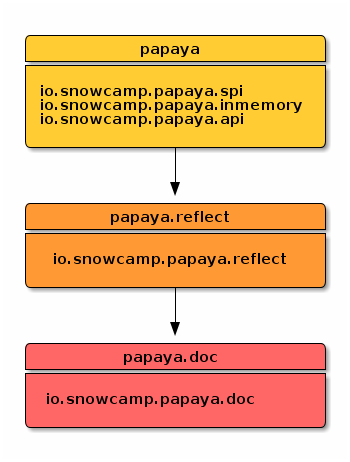
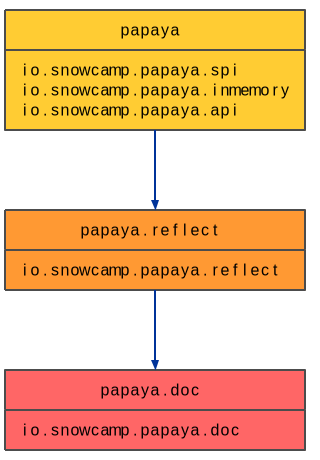
Change colors in diagrams (switch ditaa to shaape)

diff --git a/docs/notes-windows.html b/docs/notes-windows.html
@@ -563,11 +563,10 @@ It compile the source code with JDK 8 (should work) and run with JDK 9 (should f
 </div>
 </div>
 <div class="paragraph">
-<p>Thats&#8217;s a better error message !</p>
+<p>That&#8217;s a better error message !</p>
 </div>
 <div class="paragraph">
-<p>In the static initializer of PlatformDependent0, the exception is raised because the code tries to access a field of java.nui.Buffer which is not in an open package.
-(see <a href="https://github.com/netty/netty/blob/67d3a78123fa3faa85c1a150bd4ee69425079b3d/common/src/main/java/io/netty/util/internal/PlatformDependent0.java#L68" class="bare">https://github.com/netty/netty/blob/67d3a78123fa3faa85c1a150bd4ee69425079b3d/common/src/main/java/io/netty/util/internal/PlatformDependent0.java#L68</a>)</p>
+<p>In the static initializer of PlatformDependent0, the exception is raised because the code tries to access a field of java.nui.Buffer which is not in an open package <sup class="footnote">[<a id="_footnoteref_1" class="footnote" href="#_footnote_1" title="View footnote.">1</a>]</sup>.</p>
 </div>
 </div>
 <div class="sect3">
@@ -618,8 +617,7 @@ It compile the source code with JDK 8 (should work) and run with JDK 9 (should f
 </div>
 <div class="paragraph">
 <p>In the static initializer of io.netty.resolver.dns.DnsServerAddresses,
-it tries to load the class sun.net.dns.ResolverConfiguration which is in a non-exported package.
-(see <a href="https://github.com/netty/netty/blob/67d3a78123fa3faa85c1a150bd4ee69425079b3d/resolver-dns/src/main/java/io/netty/resolver/dns/DnsServerAddresses.java#L49" class="bare">https://github.com/netty/netty/blob/67d3a78123fa3faa85c1a150bd4ee69425079b3d/resolver-dns/src/main/java/io/netty/resolver/dns/DnsServerAddresses.java#L49</a>)</p>
+it tries to load the class sun.net.dns.ResolverConfiguration which is in a non-exported package <sup class="footnote">[<a id="_footnoteref_2" class="footnote" href="#_footnote_2" title="View footnote.">2</a>]</sup>.</p>
 </div>
 </div>
 <div class="sect3">
@@ -1234,6 +1232,15 @@ copy NUL src\main\java\papaya.inmemory\module-info.java</code></pre>
 </div>
 </div>
 </div>
+</div>
+</div>
+<div id="footnotes">
+<hr>
+<div class="footnote" id="_footnote_1">
+<a href="#_footnoteref_1">1</a>. <a href="https://github.com/netty/netty/blob/67d3a78123fa3faa85c1a150bd4ee69425079b3d/common/src/main/java/io/netty/util/internal/PlatformDependent0.java#L68" class="bare">https://github.com/netty/netty/blob/67d3a78123fa3faa85c1a150bd4ee69425079b3d/common/src/main/java/io/netty/util/internal/PlatformDependent0.java#L68</a>
+</div>
+<div class="footnote" id="_footnote_2">
+<a href="#_footnoteref_2">2</a>. <a href="https://github.com/netty/netty/blob/67d3a78123fa3faa85c1a150bd4ee69425079b3d/resolver-dns/src/main/java/io/netty/resolver/dns/DnsServerAddresses.java#L49" class="bare">https://github.com/netty/netty/blob/67d3a78123fa3faa85c1a150bd4ee69425079b3d/resolver-dns/src/main/java/io/netty/resolver/dns/DnsServerAddresses.java#L49</a>
 </div>
 </div>
 <div id="footer">

diff --git a/docs/notes-linux.html b/docs/notes-linux.html
@@ -563,11 +563,10 @@ It compile the source code with JDK 8 (should work) and run with JDK 9 (should f
 </div>
 </div>
 <div class="paragraph">
-<p>Thats&#8217;s a better error message !</p>
+<p>That&#8217;s a better error message !</p>
 </div>
 <div class="paragraph">
-<p>In the static initializer of PlatformDependent0, the exception is raised because the code tries to access a field of java.nui.Buffer which is not in an open package.
-(see <a href="https://github.com/netty/netty/blob/67d3a78123fa3faa85c1a150bd4ee69425079b3d/common/src/main/java/io/netty/util/internal/PlatformDependent0.java#L68" class="bare">https://github.com/netty/netty/blob/67d3a78123fa3faa85c1a150bd4ee69425079b3d/common/src/main/java/io/netty/util/internal/PlatformDependent0.java#L68</a>)</p>
+<p>In the static initializer of PlatformDependent0, the exception is raised because the code tries to access a field of java.nui.Buffer which is not in an open package <sup class="footnote">[<a id="_footnoteref_1" class="footnote" href="#_footnote_1" title="View footnote.">1</a>]</sup>.</p>
 </div>
 </div>
 <div class="sect3">
@@ -618,8 +617,7 @@ It compile the source code with JDK 8 (should work) and run with JDK 9 (should f
 </div>
 <div class="paragraph">
 <p>In the static initializer of io.netty.resolver.dns.DnsServerAddresses,
-it tries to load the class sun.net.dns.ResolverConfiguration which is in a non-exported package.
-(see <a href="https://github.com/netty/netty/blob/67d3a78123fa3faa85c1a150bd4ee69425079b3d/resolver-dns/src/main/java/io/netty/resolver/dns/DnsServerAddresses.java#L49" class="bare">https://github.com/netty/netty/blob/67d3a78123fa3faa85c1a150bd4ee69425079b3d/resolver-dns/src/main/java/io/netty/resolver/dns/DnsServerAddresses.java#L49</a>)</p>
+it tries to load the class sun.net.dns.ResolverConfiguration which is in a non-exported package <sup class="footnote">[<a id="_footnoteref_2" class="footnote" href="#_footnote_2" title="View footnote.">2</a>]</sup>.</p>
 </div>
 </div>
 <div class="sect3">
@@ -1232,6 +1230,15 @@ touch src/main/java/papaya.inmemory/module-info.java</code></pre>
 </div>
 </div>
 </div>
+</div>
+</div>
+<div id="footnotes">
+<hr>
+<div class="footnote" id="_footnote_1">
+<a href="#_footnoteref_1">1</a>. <a href="https://github.com/netty/netty/blob/67d3a78123fa3faa85c1a150bd4ee69425079b3d/common/src/main/java/io/netty/util/internal/PlatformDependent0.java#L68" class="bare">https://github.com/netty/netty/blob/67d3a78123fa3faa85c1a150bd4ee69425079b3d/common/src/main/java/io/netty/util/internal/PlatformDependent0.java#L68</a>
+</div>
+<div class="footnote" id="_footnote_2">
+<a href="#_footnoteref_2">2</a>. <a href="https://github.com/netty/netty/blob/67d3a78123fa3faa85c1a150bd4ee69425079b3d/resolver-dns/src/main/java/io/netty/resolver/dns/DnsServerAddresses.java#L49" class="bare">https://github.com/netty/netty/blob/67d3a78123fa3faa85c1a150bd4ee69425079b3d/resolver-dns/src/main/java/io/netty/resolver/dns/DnsServerAddresses.java#L49</a>
 </div>
 </div>
 <div id="footer">
